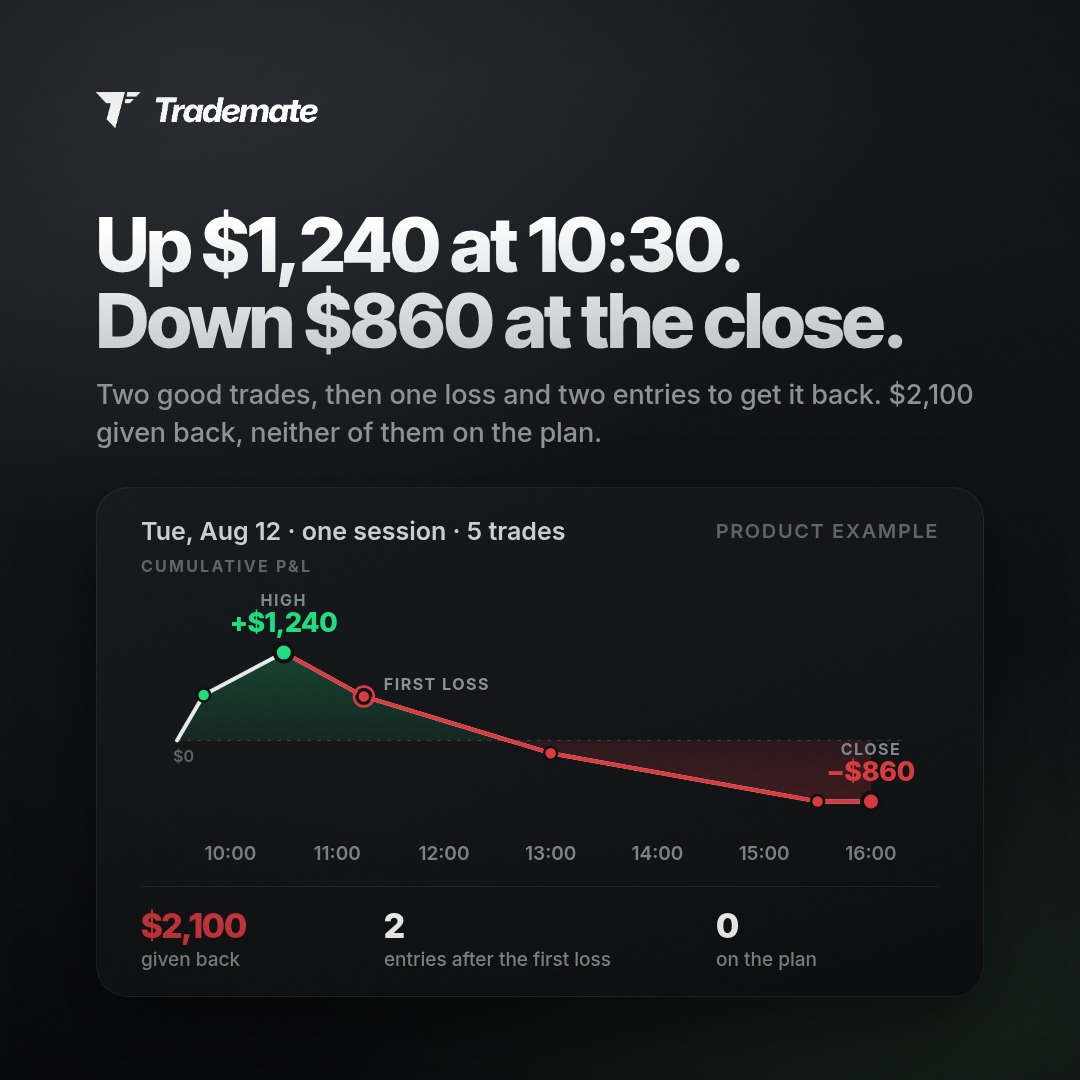
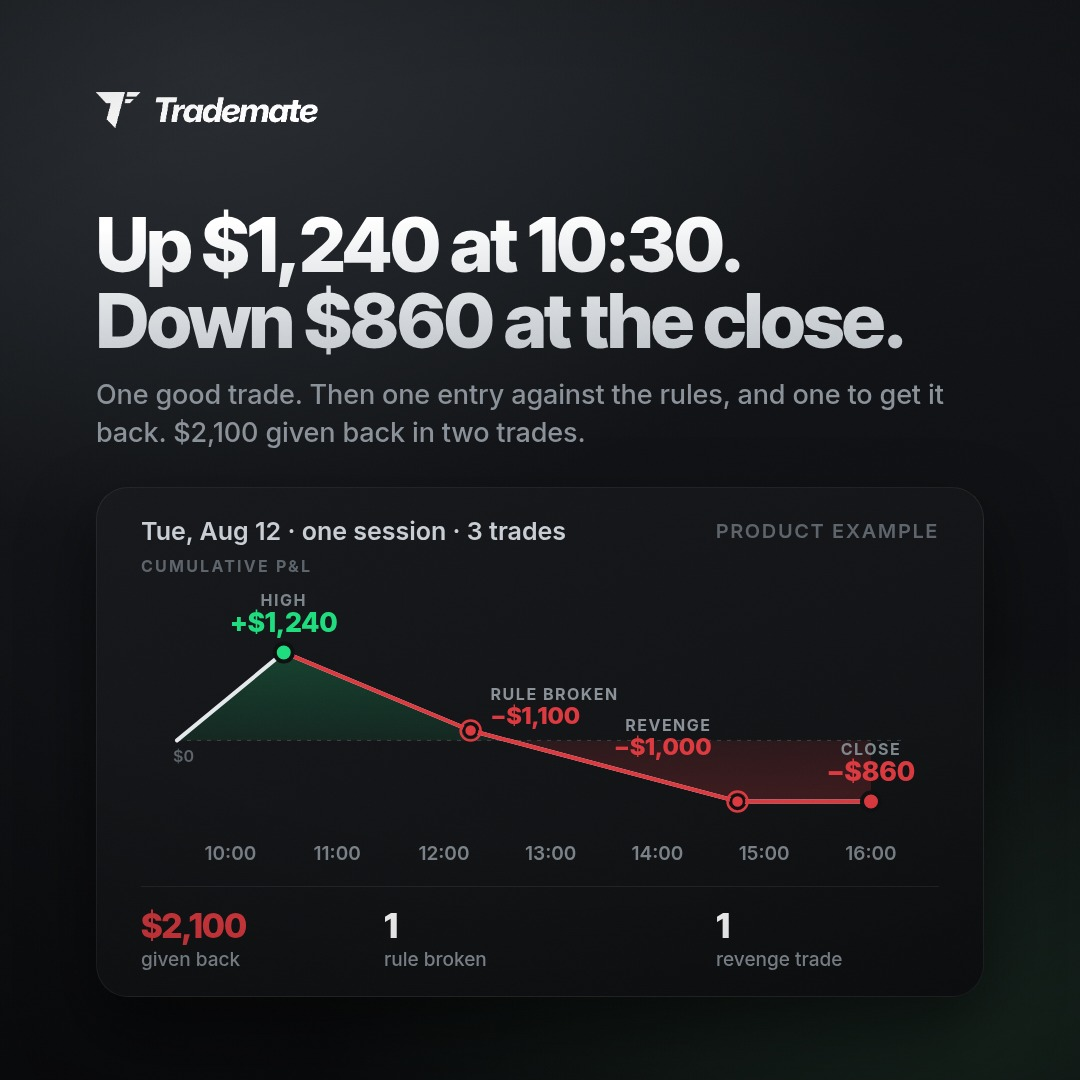
Day post: three trades - one setup, one rule break, one revenge trade
The session is now the shape a day trader recognises: a clean +$1,240
winner, a second entry against the rules (-$1,100) and a revenge trade
to get it back (-$1,000), closing at -$860. Each losing trade is tagged
on the curve with its own P&L, and the KPI strip counts the rule break
and the revenge trade instead of entries. Captions follow.

Claude-Session: https://claude.ai/code/session_01N2gUmRZUhZ4hqjJePYK53L

diff --git a/posts/pain-day-swing/src/post.html b/posts/pain-day-swing/src/post.html
@@ -163,9 +163,9 @@ en:{
   stB:'Auto charts', stBd:'Every trade gets its chart attached automatically. Entry, exit, stop, target.',
   vote:'Vote below', zoneA:'Poll sticker goes here', zoneB:'Options: Backtesting · Auto charts',
   disc:'Product concept. Features shown are planned, not final.',
-  dayH:'Up $1,240 at 10:30.<br>Down $860 at the close.', dayS:'Two good trades, then one loss and two entries to get it back. $2,100 given back, neither of them on the plan.',
-  dayM:'Tue, Aug 12 · one session · 5 trades', dayY:'Cumulative P&L', dayF:'Product example', dayHi:'High', dayCl:'Close', dayFL:'First loss',
-  dayK:[['$2,100','given back'],['2','entries after the first loss'],['0','on the plan']],
+  dayH:'Up $1,240 at 10:30.<br>Down $860 at the close.', dayS:'One good trade. Then one entry against the rules, and one to get it back. $2,100 given back in two trades.',
+  dayM:'Tue, Aug 12 · one session · 3 trades', dayY:'Cumulative P&L', dayF:'Product example', dayHi:'High', dayCl:'Close', dayFL:'Rule broken', dayRV:'Revenge',
+  dayK:[['$2,100','given back'],['1','rule broken'],['1','revenge trade']],
   swH:'Your plan: +$2,750.<br>You: −$1,250.', swS:'Same six trades. One runner cut at +0.6R that went to +4R. One stop ignored into the weekend. One stop moved. Between the plan and the trader: $4,000.',
   swM:'This month · 6 swing trades · 1R = $500', swN:'As traded', swP:'On plan', swF:'Product example', plan:'On plan', early:'Cut early', earlyN:'ran to', ignored:'Stop ignored', ignoredN:'planned', moved:'Stop moved', movedN:'planned'
 },
@@ -193,9 +193,9 @@ de:{
   stB:'Auto-Charts', stBd:'Jeder Trade bekommt seinen Chart automatisch angehängt. Entry, Exit, Stop, Ziel.',
   vote:'Stimm unten ab', zoneA:'Umfrage-Sticker hier platzieren', zoneB:'Optionen: Backtesting · Auto-Charts',
   disc:'Produktkonzept. Gezeigte Funktionen sind geplant, nicht final.',
-  dayH:'Um 10:30 bei +$1.240.<br>Zum Close bei −$860.', dayS:'Zwei gute Trades, dann ein Verlust und zwei Entries, um es zurückzuholen. $2.100 zurückgegeben, keiner davon nach Plan.',
-  dayM:'Di., 12. Aug. · eine Session · 5 Trades', dayY:'Kumulierter P&L', dayF:'Produktbeispiel', dayHi:'Hoch', dayCl:'Close', dayFL:'Erster Verlust',
-  dayK:[['$2.100','zurückgegeben'],['2','Entries nach dem ersten Verlust'],['0','nach Plan']],
+  dayH:'Um 10:30 bei +$1.240.<br>Zum Close bei −$860.', dayS:'Ein guter Trade. Dann ein Entry gegen die Regeln und einer, um es zurückzuholen. $2.100 in zwei Trades zurückgegeben.',
+  dayM:'Di., 12. Aug. · eine Session · 3 Trades', dayY:'Kumulierter P&L', dayF:'Produktbeispiel', dayHi:'Hoch', dayCl:'Close', dayFL:'Regel gebrochen', dayRV:'Revanche',
+  dayK:[['$2.100','zurückgegeben'],['1','Regel gebrochen'],['1','Revanche-Trade']],
   swH:'Dein Plan: +$2.750.<br>Du: −$1.250.', swS:'Dieselben sechs Trades. Ein Runner bei +0,6R gekappt, der bis +4R lief. Ein Stop übers Wochenende ignoriert, einer verschoben. Zwischen Plan und Trader: $4.000.',
   swM:'Dieser Monat · 6 Swing-Trades · 1R = $500', swN:'So gehandelt', swP:'Nach Plan', swF:'Produktbeispiel', plan:'Nach Plan', early:'Zu früh raus', earlyN:'lief bis', ignored:'Stop ignoriert', ignoredN:'geplant', moved:'Stop verschoben', movedN:'geplant'
 }}[LANG];
@@ -222,7 +222,7 @@ const logo='<img class="logo" src="logo.png" alt="Trademate">';
 const foot=(n)=>'<div class="foot"><span>'+C.brand+'</span><span>'+(n<7?C.swipe:'')+'</span><span>'+n+' / 7</span></div>';
 function runningPnl(){
   // [minutes since 09:30, cumulative P&L, is a trade close]
-  const pts=[[0,0,false],[15,640,true],[60,1240,true],[105,620,true],[210,-180,true],[360,-860,true],[390,-860,false]];
+  const pts=[[0,0,false],[60,1240,true],[165,140,true],[315,-860,true],[390,-860,false]];
   const W=800,H=290,padL=36,padR=70,top=56,bot=46,min=-1150,max=1500,T=390;
   const x=m=>padL+m*(W-padL-padR)/T, y=v=>top+(max-v)/(max-min)*(H-top-bot);
   const dol=v=>(v>=0?'+':'−')+'$'+Math.abs(v).toLocaleString(LANG==='de'?'de-DE':'en-US');
@@ -236,16 +236,19 @@ function runningPnl(){
   const area='M'+x(0)+' '+y(0)+' '+pts.map(p=>'L'+x(p[0])+' '+y(p[1])).join(' ')+' L'+x(T)+' '+y(0)+'Z';
   s+='<path d="'+area+'" fill="url(#gA)" clip-path="url(#cUp)"/><path d="'+area+'" fill="url(#gR)" clip-path="url(#cDn)"/>';
   s+='<path d="'+d+'" fill="none" stroke="#e6e9ec" stroke-width="4" stroke-linejoin="round" stroke-linecap="round"/>';
-  s+='<path d="'+pts.slice(2).map((p,i)=>(i?'L':'M')+x(p[0]).toFixed(1)+' '+y(p[1]).toFixed(1)).join(' ')+'" fill="none" stroke="#DC3A40" stroke-width="4" stroke-linejoin="round" stroke-linecap="round"/>';
-  pts.forEach((p,i)=>{ if(!p[2]) return; const col=i<=2?'#1FDD7F':'#DC3A40'; s+='<circle cx="'+x(p[0])+'" cy="'+y(p[1])+'" r="6.5" fill="'+col+'" stroke="#0e1012" stroke-width="2.5"/>'; });
+  s+='<path d="'+pts.slice(1).map((p,i)=>(i?'L':'M')+x(p[0]).toFixed(1)+' '+y(p[1]).toFixed(1)).join(' ')+'" fill="none" stroke="#DC3A40" stroke-width="4" stroke-linejoin="round" stroke-linecap="round"/>';
+  pts.forEach((p,i)=>{ if(!p[2]) return; const col=i<=1?'#1FDD7F':'#DC3A40'; s+='<circle cx="'+x(p[0])+'" cy="'+y(p[1])+'" r="6.5" fill="'+col+'" stroke="#0e1012" stroke-width="2.5"/>'; });
   for(let h=10;h<=16;h++){ const m=(h-9)*60-30; s+='<text x="'+x(m)+'" y="'+(H-8)+'" text-anchor="middle" font-family="Inter" font-size="19" font-weight="600" fill="#7e868d">'+h+':00</text>'; }
   const big=(m,v,l,col)=>{s+='<circle cx="'+x(m)+'" cy="'+y(v)+'" r="9" fill="'+col+'" stroke="#0e1012" stroke-width="4"/>';
     const ty=y(v)-20, ly=ty-26;
     s+='<text x="'+x(m)+'" y="'+ty+'" text-anchor="middle" font-family="Inter Tight" font-size="27" font-weight="800" fill="'+col+'">'+dol(v)+'</text>';
     s+='<text x="'+x(m)+'" y="'+ly+'" text-anchor="middle" font-family="Inter" font-size="16" font-weight="700" fill="#7e868d" letter-spacing="1.5">'+l.toUpperCase()+'</text>';};
   big(60,1240,C.dayHi,'#1FDD7F'); big(390,-860,C.dayCl,'#DC3A40');
-  s+='<circle cx="'+x(105)+'" cy="'+y(620)+'" r="10" fill="none" stroke="#DC3A40" stroke-width="2.5"/>';
-  s+='<text x="'+(x(105)+20)+'" y="'+(y(620)-6)+'" font-family="Inter" font-size="16" font-weight="700" fill="#8a9199" letter-spacing="1.5">'+C.dayFL.toUpperCase()+'</text>';
+  const tag=(m,v,l,pnl,right,lift)=>{s+='<circle cx="'+x(m)+'" cy="'+y(v)+'" r="10" fill="none" stroke="#DC3A40" stroke-width="2.5"/>';
+    const tx=right?x(m)+20:x(m)-26, an=right?'start':'end';
+    s+='<text x="'+tx+'" y="'+(y(v)-lift-24)+'" text-anchor="'+an+'" font-family="Inter" font-size="16" font-weight="700" fill="#8a9199" letter-spacing="1.5">'+l.toUpperCase()+'</text>';
+    s+='<text x="'+tx+'" y="'+(y(v)-lift)+'" text-anchor="'+an+'" font-family="Inter Tight" font-size="24" font-weight="800" fill="#DC3A40">'+dol(pnl)+'</text>';};
+  tag(165,140,C.dayFL,-1100,true,6); tag(315,-860,C.dayRV,-1000,false,46);
   return s+'</svg>';
 }
 function hourBars(){

diff --git a/posts/story-feature-poll/src/post.html b/posts/story-feature-poll/src/post.html
@@ -163,9 +163,9 @@ en:{
   stB:'Auto charts', stBd:'Every trade gets its chart attached automatically. Entry, exit, stop, target.',
   vote:'Vote below', zoneA:'Poll sticker goes here', zoneB:'Options: Backtesting · Auto charts',
   disc:'Product concept. Features shown are planned, not final.',
-  dayH:'Up $1,240 at 10:30.<br>Down $860 at the close.', dayS:'Two good trades, then one loss and two entries to get it back. $2,100 given back, neither of them on the plan.',
-  dayM:'Tue, Aug 12 · one session · 5 trades', dayY:'Cumulative P&L', dayF:'Product example', dayHi:'High', dayCl:'Close', dayFL:'First loss',
-  dayK:[['$2,100','given back'],['2','entries after the first loss'],['0','on the plan']],
+  dayH:'Up $1,240 at 10:30.<br>Down $860 at the close.', dayS:'One good trade. Then one entry against the rules, and one to get it back. $2,100 given back in two trades.',
+  dayM:'Tue, Aug 12 · one session · 3 trades', dayY:'Cumulative P&L', dayF:'Product example', dayHi:'High', dayCl:'Close', dayFL:'Rule broken', dayRV:'Revenge',
+  dayK:[['$2,100','given back'],['1','rule broken'],['1','revenge trade']],
   swH:'Your plan: +$2,750.<br>You: −$1,250.', swS:'Same six trades. One runner cut at +0.6R that went to +4R. One stop ignored into the weekend. One stop moved. Between the plan and the trader: $4,000.',
   swM:'This month · 6 swing trades · 1R = $500', swN:'As traded', swP:'On plan', swF:'Product example', plan:'On plan', early:'Cut early', earlyN:'ran to', ignored:'Stop ignored', ignoredN:'planned', moved:'Stop moved', movedN:'planned'
 },
@@ -193,9 +193,9 @@ de:{
   stB:'Auto-Charts', stBd:'Jeder Trade bekommt seinen Chart automatisch angehängt. Entry, Exit, Stop, Ziel.',
   vote:'Stimm unten ab', zoneA:'Umfrage-Sticker hier platzieren', zoneB:'Optionen: Backtesting · Auto-Charts',
   disc:'Produktkonzept. Gezeigte Funktionen sind geplant, nicht final.',
-  dayH:'Um 10:30 bei +$1.240.<br>Zum Close bei −$860.', dayS:'Zwei gute Trades, dann ein Verlust und zwei Entries, um es zurückzuholen. $2.100 zurückgegeben, keiner davon nach Plan.',
-  dayM:'Di., 12. Aug. · eine Session · 5 Trades', dayY:'Kumulierter P&L', dayF:'Produktbeispiel', dayHi:'Hoch', dayCl:'Close', dayFL:'Erster Verlust',
-  dayK:[['$2.100','zurückgegeben'],['2','Entries nach dem ersten Verlust'],['0','nach Plan']],
+  dayH:'Um 10:30 bei +$1.240.<br>Zum Close bei −$860.', dayS:'Ein guter Trade. Dann ein Entry gegen die Regeln und einer, um es zurückzuholen. $2.100 in zwei Trades zurückgegeben.',
+  dayM:'Di., 12. Aug. · eine Session · 3 Trades', dayY:'Kumulierter P&L', dayF:'Produktbeispiel', dayHi:'Hoch', dayCl:'Close', dayFL:'Regel gebrochen', dayRV:'Revanche',
+  dayK:[['$2.100','zurückgegeben'],['1','Regel gebrochen'],['1','Revanche-Trade']],
   swH:'Dein Plan: +$2.750.<br>Du: −$1.250.', swS:'Dieselben sechs Trades. Ein Runner bei +0,6R gekappt, der bis +4R lief. Ein Stop übers Wochenende ignoriert, einer verschoben. Zwischen Plan und Trader: $4.000.',
   swM:'Dieser Monat · 6 Swing-Trades · 1R = $500', swN:'So gehandelt', swP:'Nach Plan', swF:'Produktbeispiel', plan:'Nach Plan', early:'Zu früh raus', earlyN:'lief bis', ignored:'Stop ignoriert', ignoredN:'geplant', moved:'Stop verschoben', movedN:'geplant'
 }}[LANG];
@@ -222,7 +222,7 @@ const logo='<img class="logo" src="logo.png" alt="Trademate">';
 const foot=(n)=>'<div class="foot"><span>'+C.brand+'</span><span>'+(n<7?C.swipe:'')+'</span><span>'+n+' / 7</span></div>';
 function runningPnl(){
   // [minutes since 09:30, cumulative P&L, is a trade close]
-  const pts=[[0,0,false],[15,640,true],[60,1240,true],[105,620,true],[210,-180,true],[360,-860,true],[390,-860,false]];
+  const pts=[[0,0,false],[60,1240,true],[165,140,true],[315,-860,true],[390,-860,false]];
   const W=800,H=290,padL=36,padR=70,top=56,bot=46,min=-1150,max=1500,T=390;
   const x=m=>padL+m*(W-padL-padR)/T, y=v=>top+(max-v)/(max-min)*(H-top-bot);
   const dol=v=>(v>=0?'+':'−')+'$'+Math.abs(v).toLocaleString(LANG==='de'?'de-DE':'en-US');
@@ -236,16 +236,19 @@ function runningPnl(){
   const area='M'+x(0)+' '+y(0)+' '+pts.map(p=>'L'+x(p[0])+' '+y(p[1])).join(' ')+' L'+x(T)+' '+y(0)+'Z';
   s+='<path d="'+area+'" fill="url(#gA)" clip-path="url(#cUp)"/><path d="'+area+'" fill="url(#gR)" clip-path="url(#cDn)"/>';
   s+='<path d="'+d+'" fill="none" stroke="#e6e9ec" stroke-width="4" stroke-linejoin="round" stroke-linecap="round"/>';
-  s+='<path d="'+pts.slice(2).map((p,i)=>(i?'L':'M')+x(p[0]).toFixed(1)+' '+y(p[1]).toFixed(1)).join(' ')+'" fill="none" stroke="#DC3A40" stroke-width="4" stroke-linejoin="round" stroke-linecap="round"/>';
-  pts.forEach((p,i)=>{ if(!p[2]) return; const col=i<=2?'#1FDD7F':'#DC3A40'; s+='<circle cx="'+x(p[0])+'" cy="'+y(p[1])+'" r="6.5" fill="'+col+'" stroke="#0e1012" stroke-width="2.5"/>'; });
+  s+='<path d="'+pts.slice(1).map((p,i)=>(i?'L':'M')+x(p[0]).toFixed(1)+' '+y(p[1]).toFixed(1)).join(' ')+'" fill="none" stroke="#DC3A40" stroke-width="4" stroke-linejoin="round" stroke-linecap="round"/>';
+  pts.forEach((p,i)=>{ if(!p[2]) return; const col=i<=1?'#1FDD7F':'#DC3A40'; s+='<circle cx="'+x(p[0])+'" cy="'+y(p[1])+'" r="6.5" fill="'+col+'" stroke="#0e1012" stroke-width="2.5"/>'; });
   for(let h=10;h<=16;h++){ const m=(h-9)*60-30; s+='<text x="'+x(m)+'" y="'+(H-8)+'" text-anchor="middle" font-family="Inter" font-size="19" font-weight="600" fill="#7e868d">'+h+':00</text>'; }
   const big=(m,v,l,col)=>{s+='<circle cx="'+x(m)+'" cy="'+y(v)+'" r="9" fill="'+col+'" stroke="#0e1012" stroke-width="4"/>';
     const ty=y(v)-20, ly=ty-26;
     s+='<text x="'+x(m)+'" y="'+ty+'" text-anchor="middle" font-family="Inter Tight" font-size="27" font-weight="800" fill="'+col+'">'+dol(v)+'</text>';
     s+='<text x="'+x(m)+'" y="'+ly+'" text-anchor="middle" font-family="Inter" font-size="16" font-weight="700" fill="#7e868d" letter-spacing="1.5">'+l.toUpperCase()+'</text>';};
   big(60,1240,C.dayHi,'#1FDD7F'); big(390,-860,C.dayCl,'#DC3A40');
-  s+='<circle cx="'+x(105)+'" cy="'+y(620)+'" r="10" fill="none" stroke="#DC3A40" stroke-width="2.5"/>';
-  s+='<text x="'+(x(105)+20)+'" y="'+(y(620)-6)+'" font-family="Inter" font-size="16" font-weight="700" fill="#8a9199" letter-spacing="1.5">'+C.dayFL.toUpperCase()+'</text>';
+  const tag=(m,v,l,pnl,right,lift)=>{s+='<circle cx="'+x(m)+'" cy="'+y(v)+'" r="10" fill="none" stroke="#DC3A40" stroke-width="2.5"/>';
+    const tx=right?x(m)+20:x(m)-26, an=right?'start':'end';
+    s+='<text x="'+tx+'" y="'+(y(v)-lift-24)+'" text-anchor="'+an+'" font-family="Inter" font-size="16" font-weight="700" fill="#8a9199" letter-spacing="1.5">'+l.toUpperCase()+'</text>';
+    s+='<text x="'+tx+'" y="'+(y(v)-lift)+'" text-anchor="'+an+'" font-family="Inter Tight" font-size="24" font-weight="800" fill="#DC3A40">'+dol(pnl)+'</text>';};
+  tag(165,140,C.dayFL,-1100,true,6); tag(315,-860,C.dayRV,-1000,false,46);
   return s+'</svg>';
 }
 function hourBars(){

diff --git a/posts/pain-day-swing/captions.md b/posts/pain-day-swing/captions.md
@@ -5,17 +5,16 @@ mentions a feature or the poll. Every number in a caption is on the card.
 
 ## pain_day — "Up $1,240 at 10:30. Down $860 at the close."
 
-Card: cumulative P&L of one session (Tue, Aug 12), 5 trades, one dot per
-trade. Open $0, two wins to +$1,240 at 10:30, first loss at 11:15 (−$620),
-then −$800 at 13:00 and −$680 at 15:30, close −$860. Given back: $2,100.
-Entries after the first loss: 2, neither on the plan.
+Card: cumulative P&L of one session (Tue, Aug 12), 3 trades. Trade 1 at
+10:30 +$1,240 (high). Trade 2 at 12:15 against the rules, −$1,100. Trade 3
+at 14:45 the revenge trade, −$1,000. Close −$860. Given back: $2,100.
 
 EN
-Up $1,240 by 10:30. Down $860 at the close. Two trades made the morning. One
-loss took a third of it, and the two entries that followed were not setups —
-they were attempts to get back to +$1,240, sized to get there fast. Three
-losing trades, $2,100 gone, and the day did not turn on a bad idea. It turned
-on the first loss. Product example: these figures illustrate the feature, not real
+Up $1,240 by 10:30 on one clean trade. Then the second entry, taken against
+the rules because the morning felt easy: −$1,100. Then the third, taken to get
+the morning back: −$1,000. Down $860 at the close. Three trades, one of them
+a setup. The day did not turn on a bad idea. It turned on the first rule you
+skipped. Product example: these figures illustrate the feature, not real
 trader results.
 
 See every session as one curve — 7-day trial, link in bio.
@@ -23,12 +22,11 @@ See every session as one curve — 7-day trial, link in bio.
 #daytrading #tradingpsychology #tradingjournal #riskmanagement #tradingedge
 
 DE
-Um 10:30 bei +$1.240. Zum Close bei −$860. Zwei Trades haben den Morgen
-gemacht. Ein Verlust hat ein Drittel davon genommen, und die zwei Entries
-danach waren keine Setups — sie waren Versuche, zurück auf +$1.240 zu kommen,
-groß genug, um schnell dort zu sein. Drei Verlust-Trades, $2.100 weg, und der
-Tag ist nicht an einer schlechten Idee gekippt. Er ist am ersten Verlust
-gekippt. Produktbeispiel: Die Zahlen veranschaulichen
+Um 10:30 bei +$1.240, mit einem sauberen Trade. Dann der zweite Entry, gegen
+die Regeln, weil der Morgen sich leicht anfühlte: −$1.100. Dann der dritte, um
+den Morgen zurückzuholen: −$1.000. Zum Close bei −$860. Drei Trades, einer
+davon ein Setup. Der Tag ist nicht an einer schlechten Idee gekippt. Er ist an
+der ersten Regel gekippt, die du übersprungen hast. Produktbeispiel: Die Zahlen veranschaulichen
 die Funktion, keine echten Handelsergebnisse.
 
 Sieh jede Session als eine Kurve — 7 Tage kostenlos, Link in Bio.
